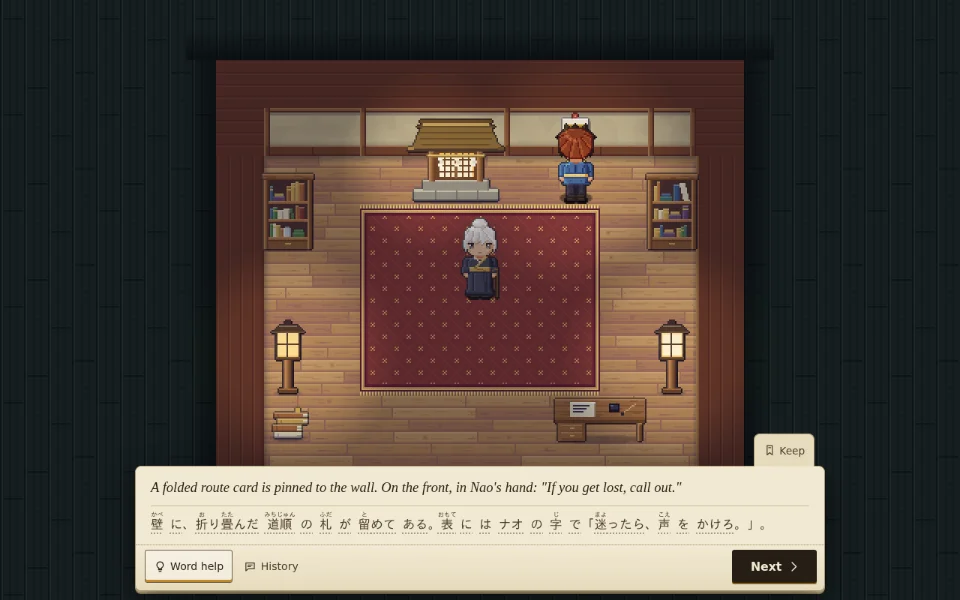
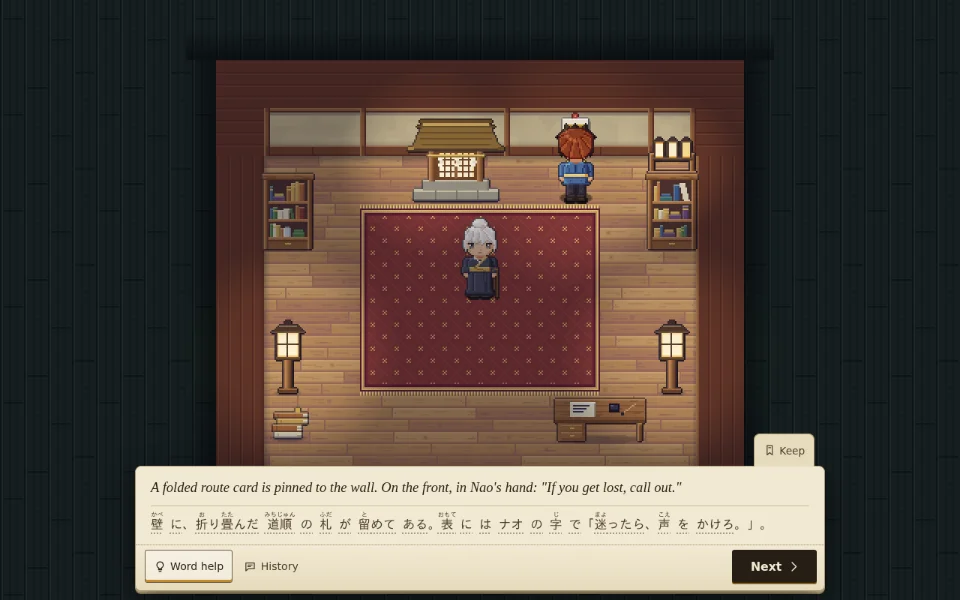
Practice addendum Phase G: integrated validation; the test player leaves practice activities
- Default suite on the integrated build (25fab16): 57/58 scripts. The whole-game run stopped in
  Chapter 3 at the new post box: the automated player chose the proofreader's tray and the
  proofreading practice opened after the scene; the test player had no rule for a practice
  activity. src/engine/99_test.js (inert unless a test enables it) now looks at an activity
  opened from a scene and leaves it with Back, as it does for the folio and the Weave sheet.
  With that, the whole-game run finished Chapters 1-6 and the first Atlas restoration with no
  problems and no page errors.
- VALIDATION.md "Practice addendum - integrated validation", REQUIREMENTS.md PA1-PA8, HANDOFF.md
  (practice section complete; battle addendum section in progress).
- docs/screenshots/pages and words: captures refreshed by the suite on the integrated build.

Claude-Session: https://claude.ai/code/session_015RcFBxQ5xp952n4kFB8UbL

Changed region(s): [[0.6562, 0.18, 0.75, 0.36], [0.2812, 0.54, 0.3125, 0.6]]

diff --git a/src/engine/99_test.js b/src/engine/99_test.js
@@ -112,6 +112,14 @@ RB.test = (function () {
         T.log.push({ t: 'weave', targets: RB.weave.state().targets });
         RB.weave.close();
       }
+      // a practice activity chosen in a scene (the post box's proofreader's tray, say) starts once
+      // the scene ends: the automated player looks at it and leaves with Back, as a person would
+      // (the practice itself is tests/e2e/practice_*.mjs, fishing.mjs and wordplay.mjs's work)
+      if (!RB.script.isRunning() && RB.game.mode() === 'activity' && RB.activity && RB.activity.active()) {
+        const a = RB.activity.active();
+        if (T._act !== a.id) { T._act = a.id; T.log.push({ t: 'activity', kind: a.kind }); }
+        if ((a.state === 'active' || a.state === 'result') && Date.now() - (T._actAt || 0) > 400) { T._actAt = Date.now(); RB.ui.onAction('cancel'); }
+      }
       await wait(25);
     }
     throw new Error('timeout waiting for idle (mode ' + RB.game.mode() + ')');

diff --git a/HANDOFF.md b/HANDOFF.md
@@ -216,21 +216,40 @@ chart", "Measured results"); evidence: VALIDATION.md ("Every kanji on the pad").
   rebuilt from verified flags only); nothing is deleted and no New Game is
   needed. No export/import was added.
 
-## Practice, Fishing and Shiritori addendum (owner's brief of 2026-10-02) — IN PROGRESS
-- Phase A foundation done and pushed (c86d615): `s.practice`, the one-session activity
-  controller, the learning adapter and cooldowns, Words › Ways to practise, the Company
-  section hook, Practice mementos registry, device settings, the shiritori rules core,
-  provisional seams for the pace clock and the opponents. Contract: docs/PRACTICE_CONTRACTS.md.
-- Phases B–F are being built by six workers in separate worktrees, each writing
-  docs/practice/<area>.md:
-  - fishing (untimed presentation, sites, fish, 72 task variants, catalogue, mementos);
-  - pace (the optional fishing clock and calibration);
-  - shiritori engine (banks, audits, opponents, 3,600-game benchmark);
-  - wordplay (table, records, Company card, the two bond events, reflection, dialogue);
-  - suite A (lantern tending, writing desk, Practice mementos page);
-  - suite B (letters, proofreading, comparisons).
-- Phase G (merge, wire fishing to the real pace module, integrated validation, evidence,
-  REQUIREMENTS/VALIDATION) follows. Nothing beyond the foundation is merged yet.
+## Practice, Fishing and Shiritori addendum (owner's brief of 2026-10-02) — complete on this branch; REQUIREMENTS.md PA1–PA8, VALIDATION.md "Practice addendum — integrated validation", docs/practice/COVERAGE.md
+- Foundation (c86d615): `s.practice`, the one-session activity controller (`RB.activity`,
+  src/engine/09_activity.js), the learning adapter and cooldowns, Words › Ways to practise, the
+  Company hook, Practice mementos, device settings, the shiritori rules core. Contract:
+  docs/PRACTICE_CONTRACTS.md.
+- Merged (Phase G): shiritori engine (banks, audits, opponents, benchmark), the fishing pace clock
+  (the only clock in the game, off by default), suite B (letters, proofreading, comparisons; the
+  post box in Shino's Post House), the shiritori table and wordplay (records, Company card, the two
+  Bond events), suite A (lantern tending, the copying desk, Practice mementos), fishing (three sites,
+  nine fish, the stage, notes). Each area's record: docs/practice/<area>.md.
+- Checked on the integrated build: unit 7987/0; default suite 57/58, the one failure a gap in the test
+  player (a practice activity opened from a scene), fixed in src/engine/99_test.js, after which the
+  whole-game run passed. Audits and the 3,600-game benchmark unchanged.
+- Not verified: human play, native review, real handwriting, Firefox/Safari/devices, fish captions.
+
+## Battle art, adaptive combat UI and playtest repairs addendum (owner's brief of 2026-10-02) — IN PROGRESS; REQUIREMENTS.md BA1–BA12, docs/BATTLE_ART_CONTRACTS.md, docs/battle/
+- Phase A (32edf8c, 982c8df): playtest repairs RBN-01 (target-aware tap-to-interact, 50_world.js),
+  RBN-02 (prompts name the script they accept; validator check), RBN-04 (truthful heal lines),
+  RBN-05 (neutral letter lead), RBN-07 (guided gears example); the art seams (authored creature
+  poses, creature travel, `RB.battleSeq.addDelivery`, the effect registry), the shared contracts and
+  the battle-content inventory (docs/battle/INVENTORY.md).
+- Phase B (integrator, docs/battle/PRESENTATION.md): Battle animations Normal / Fast / Instant
+  independent of Text speed; the current-action banner (src/ui/82b_battle_banner.js); per-creature
+  intent badges and the inspector, Adaptive / Expanded intent display, reading-critical moves named
+  neutrally with their wording kept in view (src/ui/82c_battle_intents.js, 80_combat.js); menus that
+  withdraw on commitment, inert while away, Keep visible; Skip; fresh-press ownership and focus
+  return; Resolve and Harmony visible in every state (status inset on the language sheet; help sheets
+  rise above the party slip); portrait phones put the dock above the party slip. Measured: geometry at
+  the eight §22.2 viewports (docs/battle/GEOMETRY.md), rules invariance across presentation settings
+  (tests/e2e/battle_invariance.mjs), 20-battle cleanup (tests/e2e/battle_cycle.mjs).
+- Phases C–E run in five worker worktrees (party art; creatures A with the Flour Moth proof; creatures
+  B; contextual backdrops; pets in battle and overworld parity), each with docs/battle/<area>.md, to be
+  merged and wired by the integrator. Phase F (integrated validation, recordings, handoff) follows.
+- The owner's instruction: the full-game matrix waits until both addenda are complete.
 
 ## Commands
 - Build: `node tools/build.mjs`

diff --git a/VALIDATION.md b/VALIDATION.md
@@ -1054,3 +1054,37 @@ matrix is `docs/addendum/COVERAGE.md`, and each area's own record is in `docs/ad
     - Snowbell's tone-1 morning lines never play.
     - An arrival label or a toast can sit over the first choice for a few seconds while
       the dialogue box is at the top.
+
+## Practice addendum — integrated validation (Roadside Practice, A Quiet Cast, Companion Shiritori; owner's brief of 2026-10-02)
+All six areas are merged on the task branch: shiritori engine (da04afb), fishing pace (4e67a21), suite B
+(60d3c58), the shiritori table and wordplay (f388ffa), suite A (4913b5d) and fishing (25fab16). The
+section-by-section checklist with evidence classes, build identity and bundle growth is
+`docs/practice/COVERAGE.md`; each area keeps its record in `docs/practice/`. Every run below was in
+headless Chromium on Linux (Playwright), with synthetic campaigns in fresh browser profiles. No player
+save was used.
+- **Build identity:** `25fab16`, `index.html` 8,134,843 bytes (sha256 `406e8634a865d321…`); growth over
+  the practice base c86d615: +1.16 MiB raw, +327 KiB gzip (under the §23.7 review trigger of 1.5 MiB).
+- **U Unit** (`node tests/run-unit.mjs`, 25fab16): **7987 passed, 0 failed**.
+- **Shiritori audits and the 3,600-game benchmark** rerun at 25fab16: certification unchanged, the
+  benchmark summary identical, the live driver 0 fallbacks in 3,010 searched moves (be4c98c).
+- **B Default suite** (`node tests/e2e/run.mjs`, the 25fab16 build, 2026-10-02): **57/58 scripts passed**,
+  including every practice script (pace, practice_b, wordplay, wordplay_layout, practice_a_lamps,
+  practice_a_desk, practice_a_layout, fishing) and every earlier one.
+  - The failure was the whole-game run (`pursue.mjs E mio`): it stopped in Chapter 3 at Shino's Post
+    House, in mode `activity`. The automated player chose "Look at the proofreader's tray" at the new
+    post box (practice suite B), and the proofreading practice opened after the scene; the test player
+    had no rule for a practice activity and waited until its timeout.
+  - Cause: a gap in the test player (src/engine/99_test.js, inert unless a test enables it), not the
+    game. Back leaves the activity at once (checked for proofreading and comparisons; the other
+    practice kinds are not offered at that point).
+  - Fix: the test player now looks at an activity opened from a scene and leaves it with Back, as it
+    already does for the folio and the Weave sheet. With the fix the whole-game run finished Chapters
+    1–6 and the first Atlas restoration with no problems and no page errors (on the integrated build
+    plus the battle addendum's Phase B, in a separate worktree).
+  - For one minute during this suite a work-in-progress `index.html` replaced the 25fab16 build by
+    mistake (restored from git). Only `practice_a_layout.mjs` was running then; it passed, and it is
+    rerun on the final build (see the battle addendum's Phase B entry).
+- **Not verified:** human play of any activity (including the §7.6 pace pilot and the §23.8 questions),
+  a native speaker's review of the new Japanese, real handwriting, Firefox, Safari, real phones, the
+  foldable, a stylus, real software keyboards, and the fish captions' source check
+  (`docs/practice/COVERAGE.md`, "What is not verified").

diff --git a/REQUIREMENTS.md b/REQUIREMENTS.md
@@ -332,6 +332,16 @@ Evidence kinds as in COVERAGE.md: U unit, B browser (headless Chromium), V looke
 - [v] D12 Integration of the six slices (one memory per meeting, the pets' rest option, the Pages panel on the Companion page, keepsake display once, case topics in Company). Evidence: B company_pets, addendum_integration, company, pages_ending; COVERAGE.md "Integration work".
 - [b] D13 Not verified: human play (fairness and fun of puzzles and cases, whether companions feel like people), native-speaker review of the new Japanese, Firefox, Safari, real phones, audible Japanese voice.
 
+## Roadside Practice, A Quiet Cast, Companion Shiritori (owner's addendum of 2026-10-02; docs/practice/COVERAGE.md; VALIDATION.md "Practice addendum — integrated validation")
+- [v] PA1 One foreground activity at a time through `RB.activity`; every way out returns the game to a valid state; a campaign change disposes the session. Evidence: U practice core; B practice_b, practice_a_lamps, wordplay (campaign change mid-session).
+- [v] PA2 Fishing at three sites with nine fish, untimed by default; the only clock in the game is fishing's optional response entry (off by default; Gentle keeps the fish on expiry). Evidence: U `pace_noclock`, `fishing`; B fishing, pace. docs/practice/fishing.md, pace.md.
+- [v] PA3 Shiritori house rules, three certified banks, searching opponents; audits and the 3,600-game benchmark unchanged on the integrated build. Evidence: U wordplay, shiritori_ai; benchmark rerun (be4c98c). docs/practice/shiritori_engine.md, shiritori_bench.md.
+- [v] PA4 The shiritori table, records, the Company card and the two Bond events (Bond values and cap unchanged). Evidence: U `wordplay_bond`; B wordplay, wordplay_layout; recording docs/screenshots/wordplay/wordplay_match.webm. docs/practice/wordplay.md.
+- [v] PA5 Lantern tending, the copying desk and Practice mementos. Evidence: B practice_a_lamps, practice_a_desk, practice_a_layout. docs/practice/suite_a.md.
+- [v] PA6 Villagers' letters, the Proofreader's Tray and comparisons, from the post box in Shino's Post House. Evidence: B practice_b. docs/practice/suite_b.md.
+- [v] PA7 Integration: default suite 57/58 on 25fab16; the whole-game run, stopped by a gap in the test player (a practice activity opened from a scene), passes with the fix in src/engine/99_test.js. Evidence: VALIDATION.md.
+- [b] PA8 Not verified: human play, native-speaker review, real handwriting, Firefox, Safari, real phones and the foldable, fish captions' sources.
+
 ## Evidence index (see VALIDATION.md for commands and dates)
 - R1.1/R1.2: CSP forbids network; all browser tests record zero external requests.
 - R1.3/R14.x: tests/e2e/ui.mjs (IndexedDB probe, session-only banner under refusal, reload persistence, copy independence, delete, overwrite confirm, cross-tab read-only, pre-departure recovery, file:// mode).
